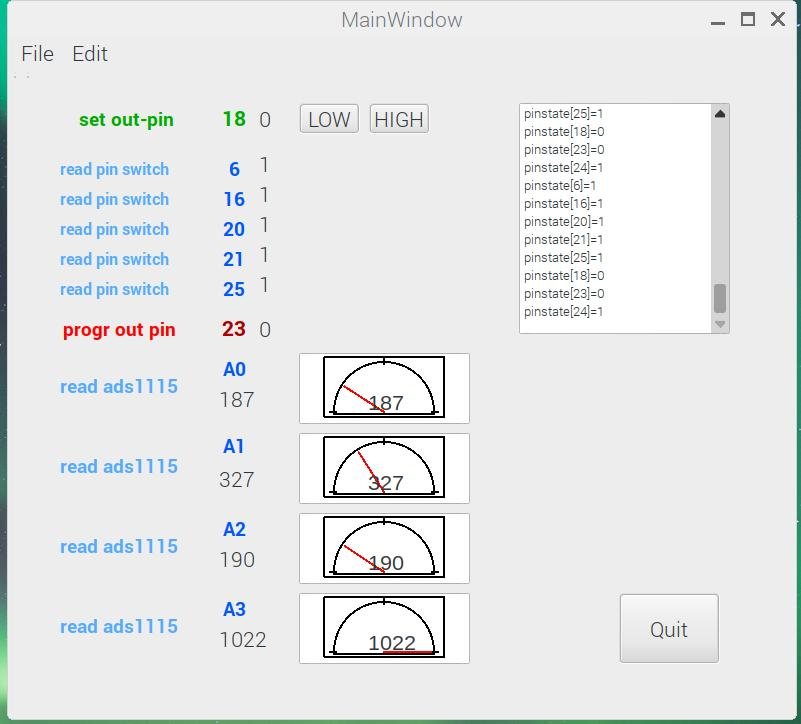
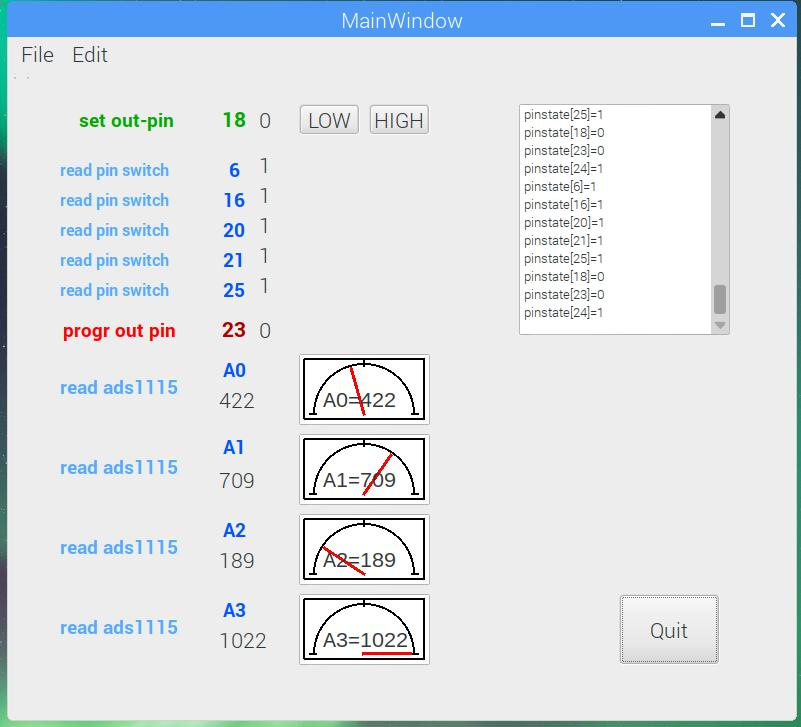
Add files via upload

diff --git a/qt/btns_wiringPi_toolbar_pthread_textedit_ads1115_gauge06/mainwindow.cpp b/qt/btns_wiringPi_toolbar_pthread_textedit_ads1115_gauge06/mainwindow.cpp
@@ -214,7 +214,7 @@ MainWindow::MainWindow(QWidget *parent)
     initCustomCircleXY(offsX, offsY, radius, -2, 4); // custom pos and radius
 
     outlinePen.setWidth(2);
-    redPen.setWidth(2);
+    redPen.setWidth(3);
 
     scene0 = new QGraphicsScene(this);
     ui->graphicsView_0->setScene(scene0);
@@ -246,14 +246,14 @@ MainWindow::MainWindow(QWidget *parent)
     pline2->setTransformOriginPoint(offsX+radius, offsY);
     pline3->setTransformOriginPoint(offsX+radius, offsY);
 
-    text0 = scene0->addText("ADCX", QFont("Arial", 16) );
-    text1 = scene1->addText("ADCX", QFont("Arial", 16) );
-    text2 = scene2->addText("ADCX", QFont("Arial", 16) );
-    text3 = scene3->addText("ADCX", QFont("Arial", 16) );
-    text0->setPos(offsX+radius-20, offsY-25);
-    text1->setPos(offsX+radius-20, offsY-25);
-    text2->setPos(offsX+radius-20, offsY-25);
-    text3->setPos(offsX+radius-20, offsY-25);
+    text0 = scene0->addText("A0=", QFont("Arial", 16) );
+    text1 = scene1->addText("A1=", QFont("Arial", 16) );
+    text2 = scene2->addText("A2=", QFont("Arial", 16) );
+    text3 = scene3->addText("A3=", QFont("Arial", 16) );
+    text0->setPos(offsX+5, offsY-30);
+    text1->setPos(offsX+5, offsY-30);
+    text2->setPos(offsX+5, offsY-30);
+    text3->setPos(offsX+5, offsY-30);
 
 
      // threads, timers
@@ -288,7 +288,7 @@ void MainWindow::drawGauge(QGraphicsScene *scene) {
     for(int i=0; i<180; i++) {
        line = scene->addLine(myCircleXY[i][0], myCircleXY[i][1], myCircleXY[i+1][0], myCircleXY[i+1][1], outlinePen);
     }
-    line = scene->addLine(offsX, offsY+2, offsX+(2*radius), offsY+2, outlinePen);
+    // line = scene->addLine(offsX, offsY+2, offsX+(2*radius), offsY+2, outlinePen);
     line = scene->addLine(myCircleXY_sm[0][0], myCircleXY_sm[0][1], myCircleXY_lg[0][0], myCircleXY_lg[0][1], outlinePen);
     line = scene->addLine(myCircleXY_sm[90][0], myCircleXY_sm[90][1], myCircleXY_lg[90][0], myCircleXY_lg[90][1], outlinePen);
     line = scene->addLine(myCircleXY_sm[180][0], myCircleXY_sm[180][1], myCircleXY_lg[180][0], myCircleXY_lg[180][1], outlinePen);
@@ -330,7 +330,6 @@ void MainWindow::on_actionGPIO25_PDN_triggered()
 //  update time loops, invoked every ...ms
 //-------------------------------------------------------------------------------
 void MainWindow::onUpdateTime1() {  // quick
-    //double val;
 
     // read input GPIOs
     pinstate[ 6] = digitalRead(6);
@@ -362,7 +361,7 @@ void MainWindow::onUpdateTime1() {  // quick
 void MainWindow::onUpdateTime2() {  // slow
     double val;
 
-    // update values on dashboard
+    // show up values on dashboard
 
     ui->pin6Label->setText(QString::number(pinstate[6]));
     Qwriteln1("pinstate[6]="+QString::number(pinstate[6]));
@@ -386,6 +385,7 @@ void MainWindow::onUpdateTime2() {  // slow
     Qwriteln1("pinstate[23]="+QString::number(pinstate[23]));
     Qwriteln1("pinstate[24]="+QString::number(pinstate[24]));
 
+    // debug, test
     ui->label_ads1115A0->setText(QString::number(analog0));
     ui->label_ads1115A1->setText(QString::number(analog1));
     ui->label_ads1115A2->setText(QString::number(analog2));
@@ -395,22 +395,22 @@ void MainWindow::onUpdateTime2() {  // slow
     //Gauge 0
     val=(analog0)*180.0/maxADC;    
     pline0->setRotation(val);
-    text0->setPlainText(QString::number(analog0));
+    text0->setPlainText("A0="+QString::number(analog0));
 
     //Gauge 1
     val=(analog1)*180.0/maxADC;
     pline1->setRotation(val);
-    text1->setPlainText(QString::number(analog1));
+    text1->setPlainText("A1="+QString::number(analog1));
 
     //Gauge 2
     val=(analog2)*180.0/maxADC;
     pline2->setRotation(val);
-    text2->setPlainText(QString::number(analog2));
+    text2->setPlainText("A2="+QString::number(analog2));
 
     //Gauge 3
     val=(analog3)*180.0/maxADC;
     pline3->setRotation(val);
-    text3->setPlainText(QString::number(analog3));
+    text3->setPlainText("A3="+QString::number(analog3));
 }
 
 
@@ -419,6 +419,7 @@ void MainWindow::onUpdateTime2() {  // slow
 //-------------------------------------------------------------------------------
 //  Quit
 //-------------------------------------------------------------------------------
+
 void __attribute__((noreturn))
 MainWindow::on_quitButton_clicked() {
     updateTimer.stop();
@@ -427,6 +428,7 @@ MainWindow::on_quitButton_clicked() {
 }
 
 //-------------------------------------------------------------------------------
+
 void MainWindow::on_actionQuit_triggered()
 {
     //ui->statusBar->showMessage("File Quit menu activated", 2000);
